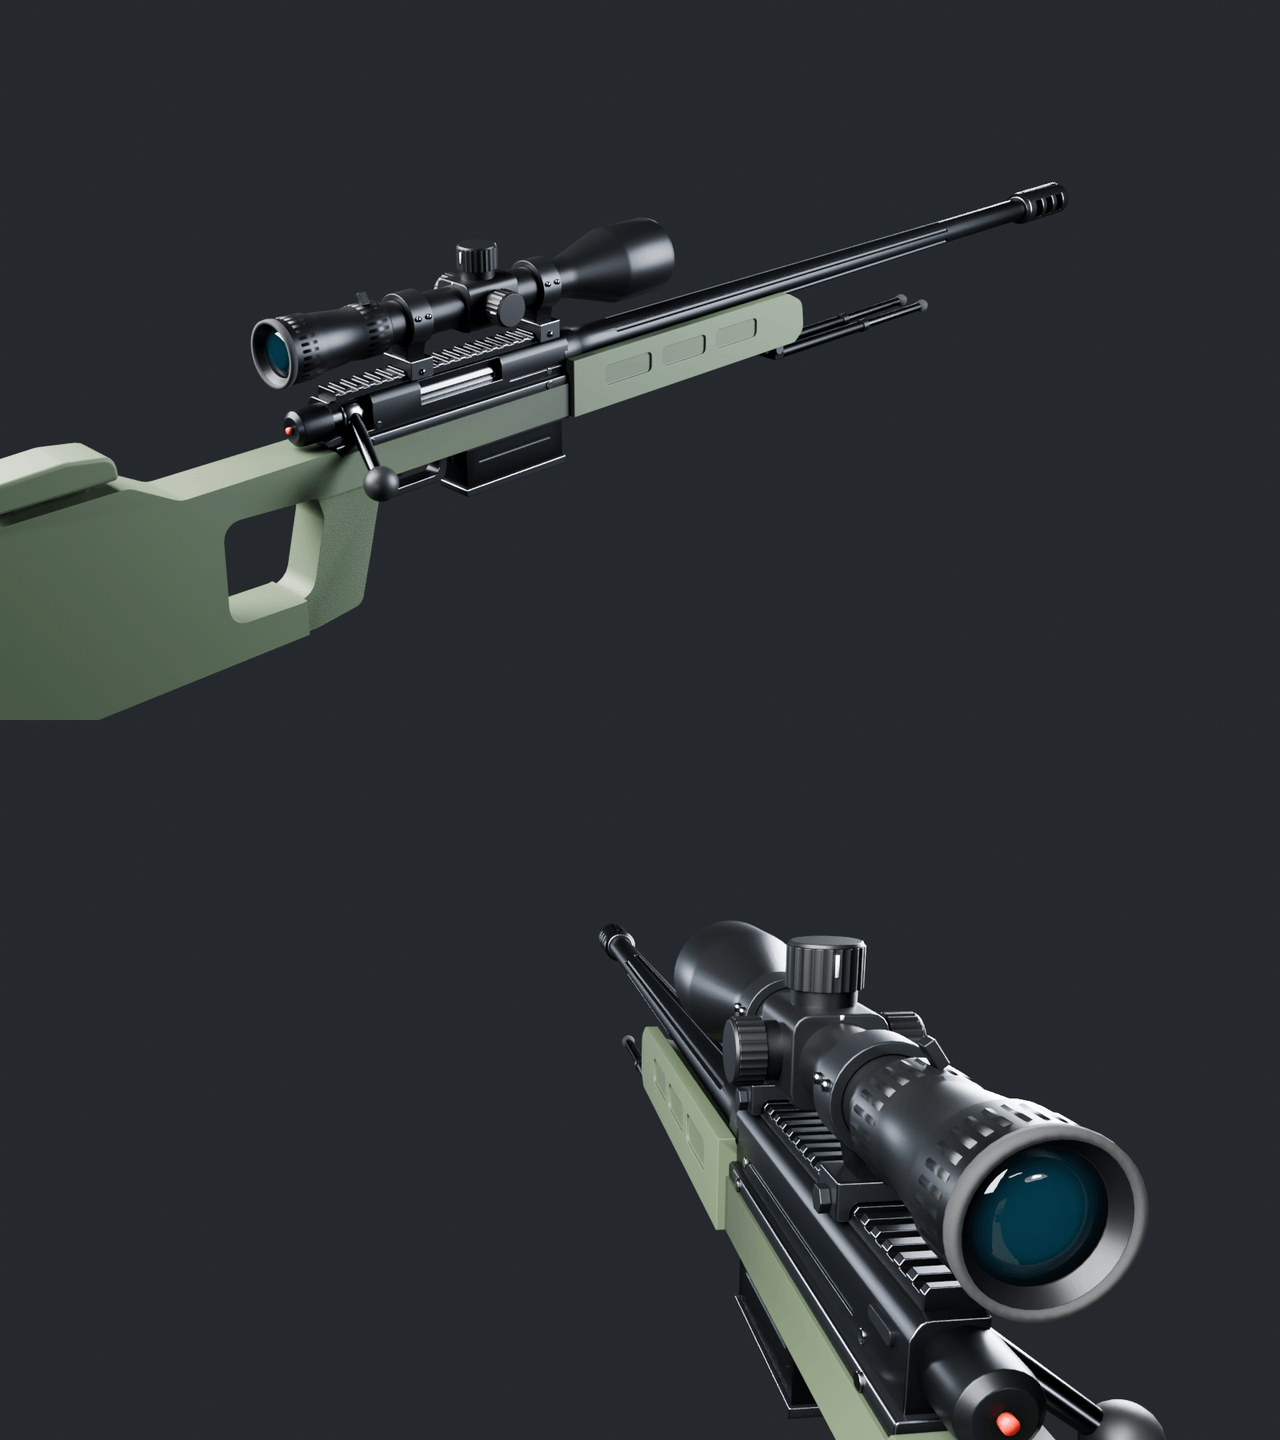
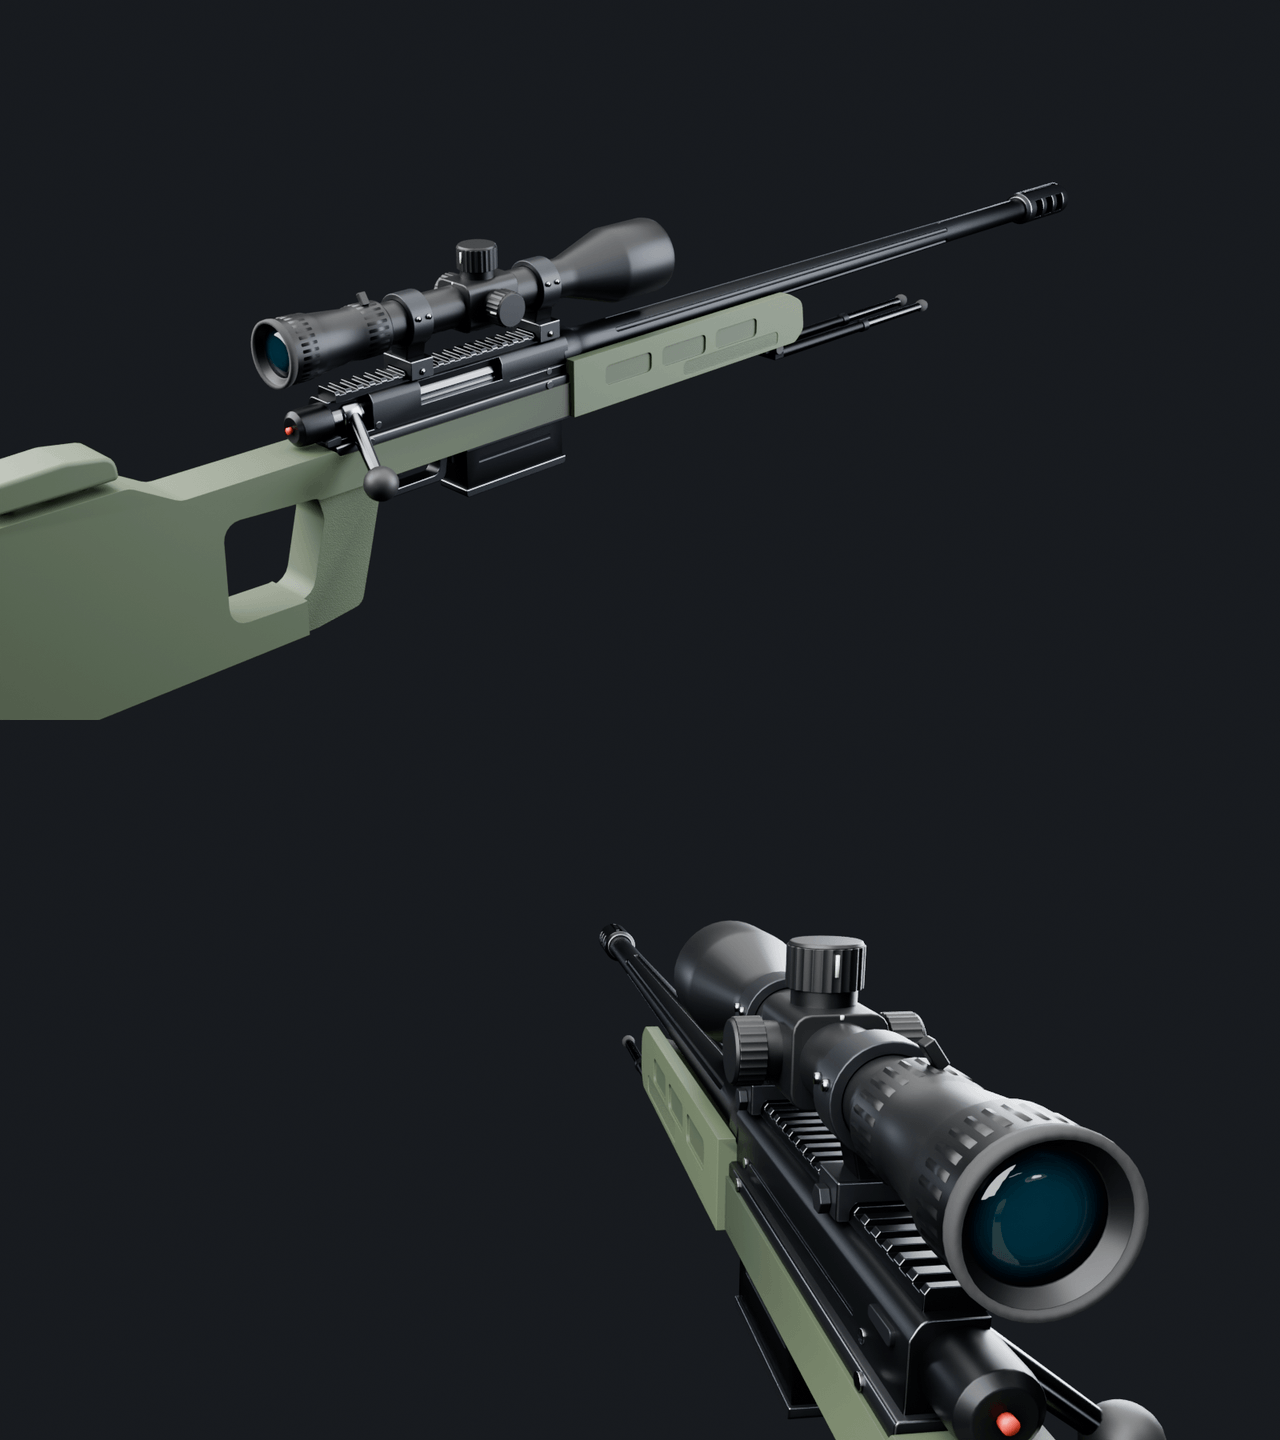
docs(weapons): preview renders closer to the in-game look
dimmer studio environment with area lights and the agx punchy look, so dark
rubber and polymer stay dark instead of washing out. the deagle 3/4 view is
reframed to show the whole grip.

diff --git a/tools/blender/weapons/wlib.py b/tools/blender/weapons/wlib.py
@@ -784,7 +784,7 @@ def setup_studio(strength=0.9, background=(0.035, 0.038, 0.045), exposure=0.0):
     links.new(bg_cam.outputs["Background"], mix.inputs[2])
     links.new(mix.outputs["Shader"], out.inputs["Surface"])
     scene.view_settings.view_transform = "AgX"
-    scene.view_settings.look = "AgX - Medium High Contrast"
+    scene.view_settings.look = "AgX - Punchy"
     scene.view_settings.exposure = exposure
     return world
 
@@ -910,7 +910,9 @@ def preview_set(name, outdir, three_q, fp, dbg, sockets, samples=192, resolution
     first-person view) and <name>_sockets.png (see-through with socket axes).
     each view is (camera_location, target, lens)."""
     preview_materials_with_ao()
-    setup_studio(strength=0.28)
+    # a dim environment keeps dark rubber and polymer dark (the studio hdri
+    # irradiance washes them out), area lights in the scripts give the highlights
+    setup_studio(strength=0.1)
     tmp = TMP
     a = os.path.join(tmp, f"{name}_34.png")
     b = os.path.join(tmp, f"{name}_fp.png")

diff --git a/tools/blender/weapons/build_deagle.py b/tools/blender/weapons/build_deagle.py
@@ -371,11 +371,12 @@ def bake(meshes):
 
 
 def renders(outdir, sockets, quick=False):
-    W.add_light("key", (-0.3, -0.2, 0.42), (0, 0.05, 0.02), 38.0, size=0.5)
-    W.add_light("rim", (0.42, 0.45, 0.22), (0, 0.05, 0.02), 22.0, size=0.4, color=(0.85, 0.9, 1.0))
+    W.add_light("key", (-0.3, -0.2, 0.42), (0, 0.05, 0.02), 55.0, size=0.6)
+    W.add_light("rim", (0.42, 0.45, 0.22), (0, 0.05, 0.02), 30.0, size=0.5, color=(0.85, 0.9, 1.0))
+    W.add_light("top", (0.05, 0.1, 0.6), (0, 0.05, 0.0), 30.0, size=0.9)
     center = Vector(final(0, 120, -58))
     eye = Vector((-0.05, -0.13, 0.115))
-    three_q = (tuple(center + Vector((0.36, -0.37, 0.19))), tuple(center + Vector((0, 0.0, -0.004))), 56)
+    three_q = (tuple(center + Vector((0.4, -0.41, 0.2))), tuple(center + Vector((0, 0.0, -0.012))), 56)
     fp = (tuple(eye), tuple(eye + Vector((0.07, 1.0, -0.2))), 30)
     dbg = (tuple(center + Vector((-0.42, -0.27, 0.2))), tuple(center + Vector((0, -0.01, -0.004))), 55, 0.013)
     if not quick:
